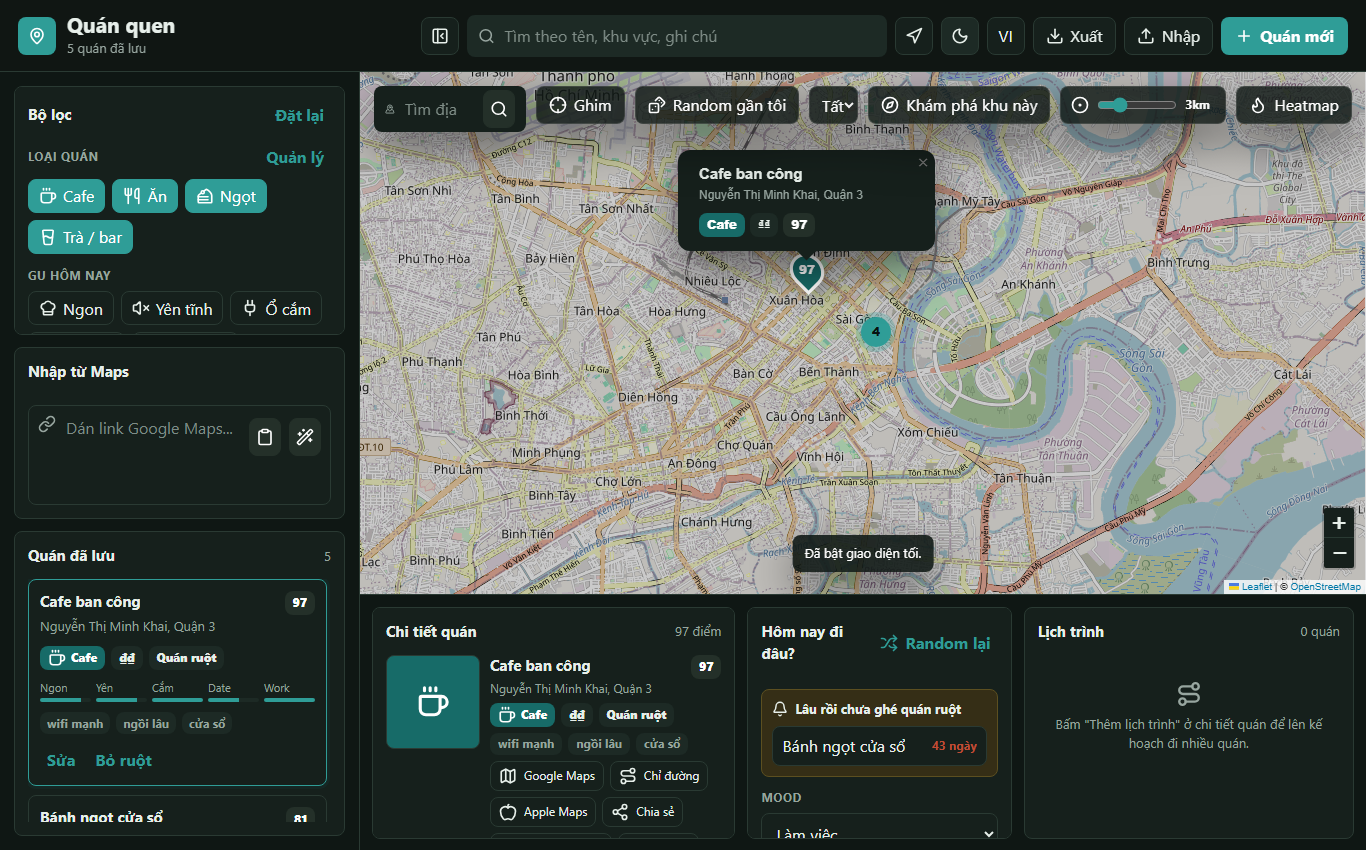
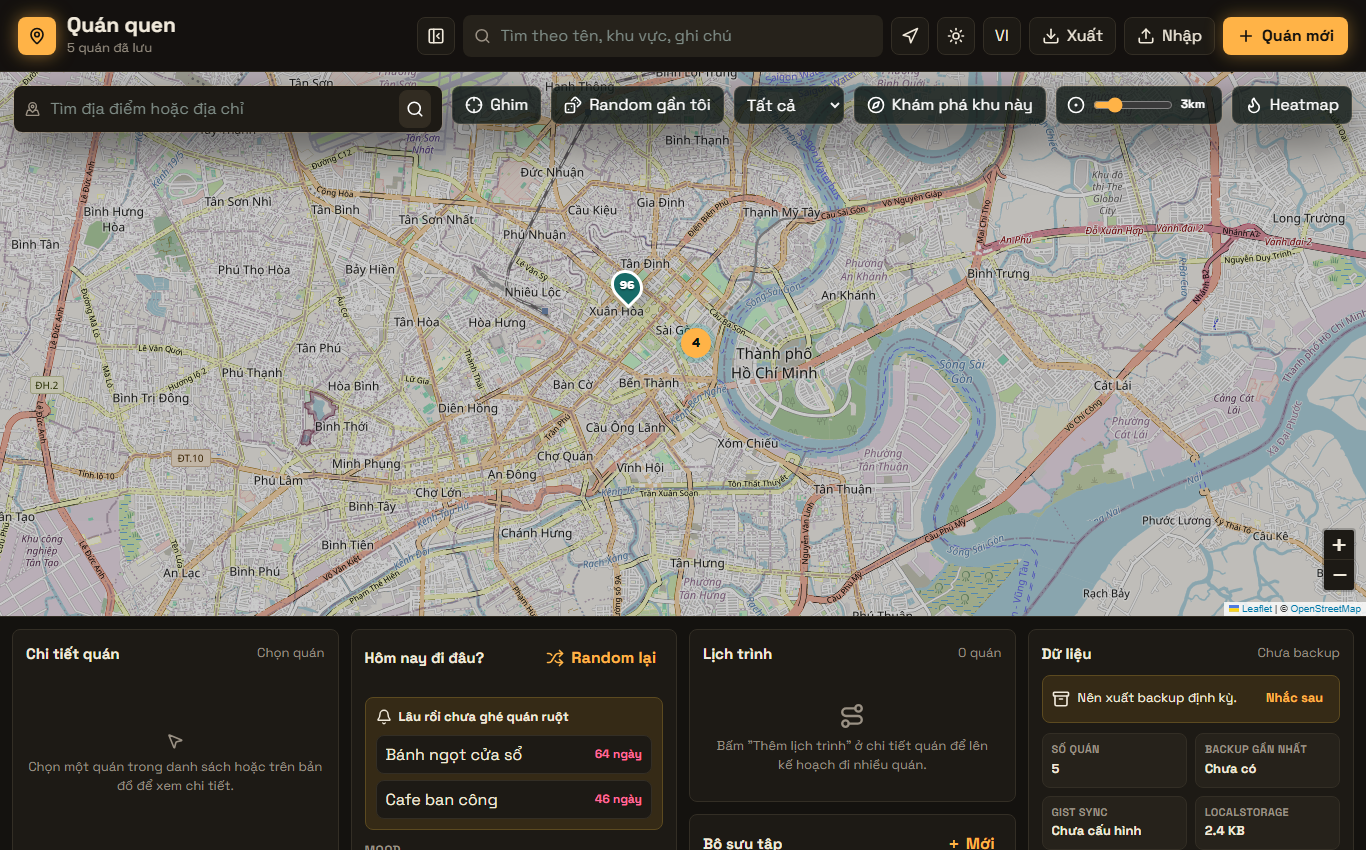
docs: cap nhat anh screenshot va gif theo giao dien Dark neon

diff --git a/scripts/screenshots.js b/scripts/screenshots.js
@@ -17,17 +17,18 @@ async function main() {
   await page.goto(BASE, { waitUntil: "load" });
   await page.waitForTimeout(3000); // chờ tile bản đồ tải
 
-  await page.screenshot({ path: path.join(OUT, "home-light.png") });
+  // Mặc định mở ở Dark neon
+  await page.screenshot({ path: path.join(OUT, "home-dark.png") });
 
   // Chọn 1 quán để hiện panel chi tiết
   await page.locator(".place-item").first().click();
   await page.waitForTimeout(1000);
   await page.screenshot({ path: path.join(OUT, "detail.png") });
 
-  // Dark mode
+  // Chuyển sang giao diện sáng (biến thể ấm)
   await page.click("#themeToggleBtn");
   await page.waitForTimeout(600);
-  await page.screenshot({ path: path.join(OUT, "home-dark.png") });
+  await page.screenshot({ path: path.join(OUT, "home-light.png") });
 
   await browser.close();
   console.log("Đã lưu ảnh vào", OUT);
